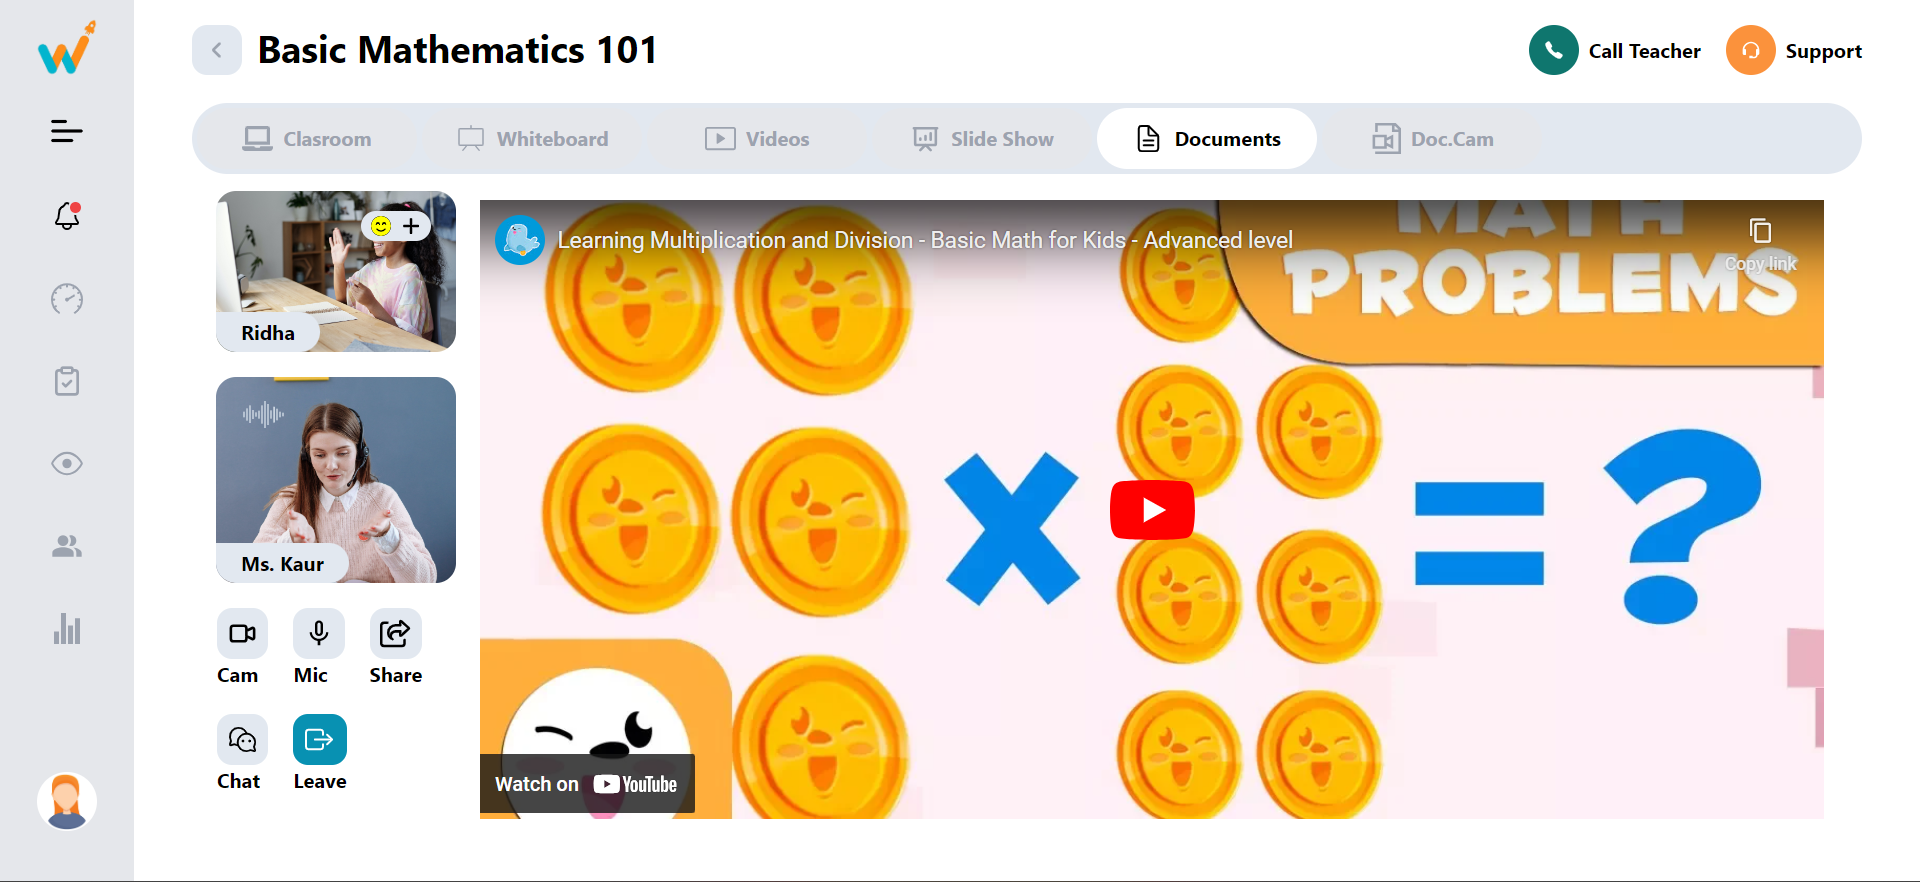
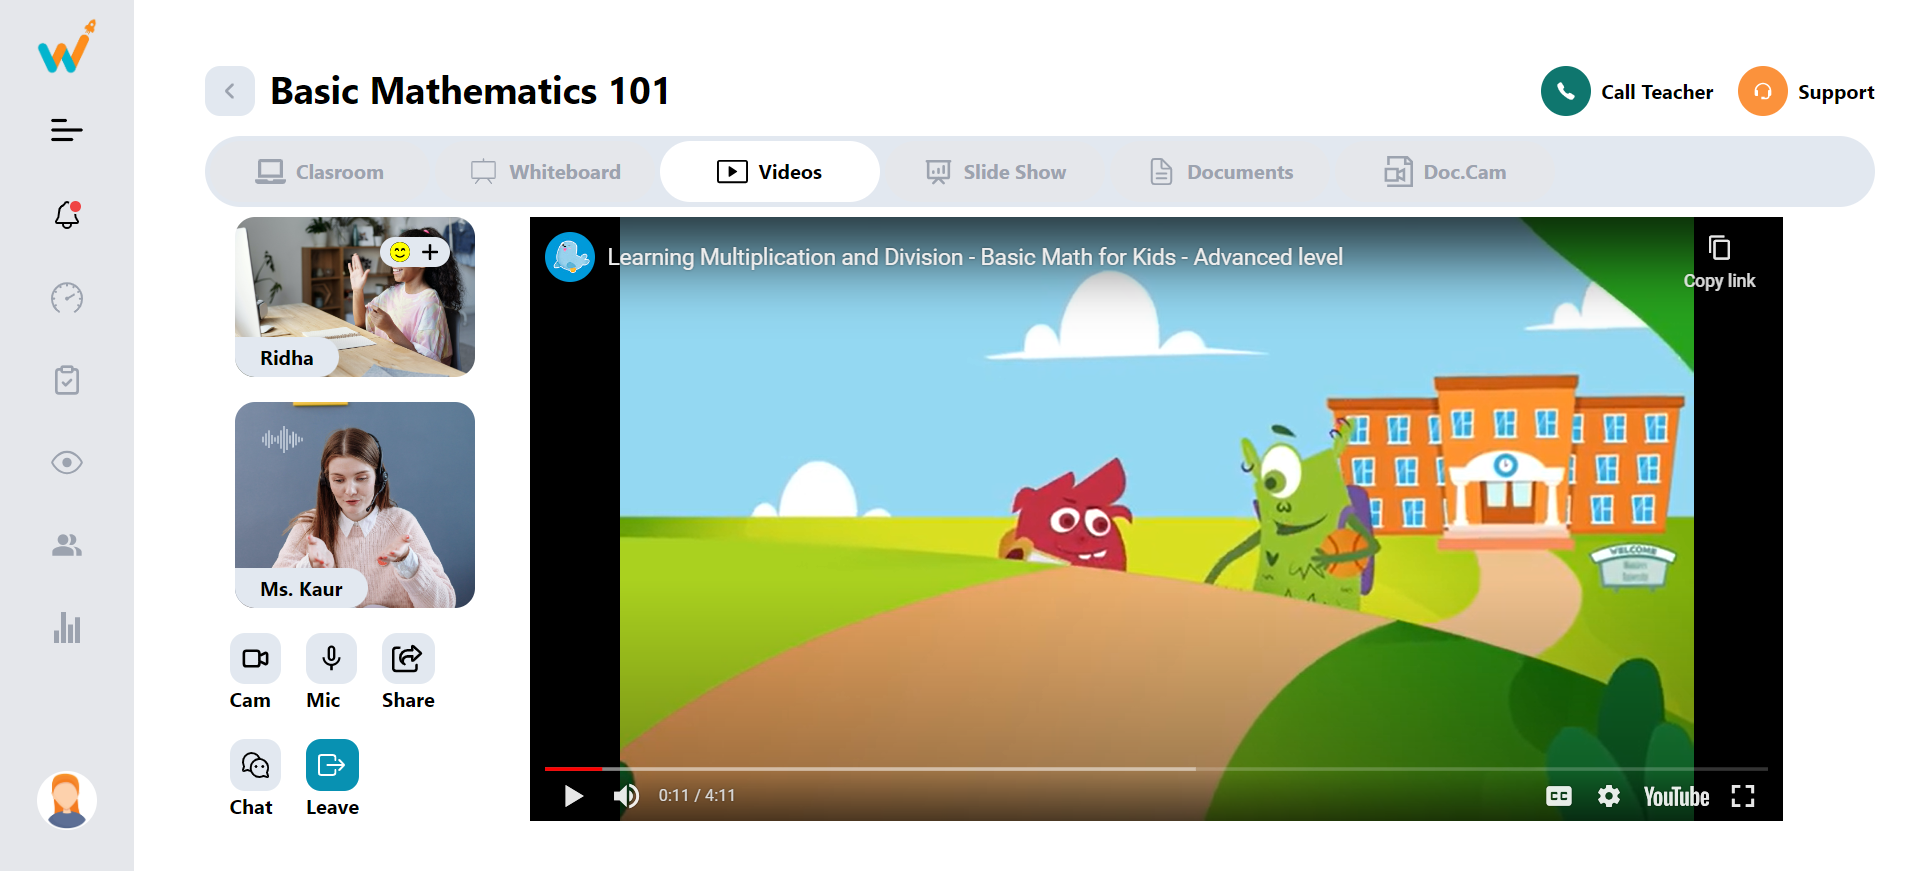
code changes

diff --git a/src/components/Interaction.js b/src/components/Interaction.js
@@ -23,24 +23,28 @@ const Interaction = () => {
         { id: 5,label: "Leave", icon: <IoExitOutline style={{ fontSize: "25px"}} />  },
       ];
   return (
-    <div className="w-[15%] h-[70%] top-[22%] left-[10%] flex flex-col gap-5 items-center  absolute">
-        <div className="relative cursor-pointer">
-            <img src={student} alt='student' className="w-48 rounded-2xl" />
-            <label className="absolute left-0 bottom-0 bg-slate-200 py-1 px-5 rounded-r-[50px] rounded-b-[50px] font-bold  ">Ridha</label>
-            <div className="absolute right-5 top-4 flex gap-2 bg-slate-200 py-1 px-2 rounded-2xl">
-                <FaFaceSmileBeam style={{color: "yellow", backgroundColor: "black", borderRadius: "18px"}}/>
-                <FaPlus/>
+    <div className=" md:w-[18%] flex flex-col gap-5 items-center">
+        <div className="flex md:flex-col gap-5">
+            <div className="relative cursor-pointer">
+                <img src={student} alt='student' className="md:w-48 w-36 rounded-2xl" />
+                <label className="absolute left-0 bottom-0 bg-slate-200 py-1 px-5 rounded-r-[50px] rounded-b-[50px] font-bold  ">Ridha</label>
+                <div className="absolute right-5 top-4 flex gap-2 bg-slate-200 py-1 px-2 rounded-2xl">
+                    <FaFaceSmileBeam style={{color: "yellow", backgroundColor: "black", borderRadius: "18px"}}/>
+                    <FaPlus/>
+                </div>
+            </div>
+            <div className="relative cursor-pointer">
+                <img src={teacher} alt='teacher' className="md:w-48 w-36 rounded-2xl"/>
+                <label className="absolute left-0 bottom-0 bg-slate-200 py-1 px-5 rounded-r-[50px] rounded-b-[50px] font-bold  ">Ms. Kaur</label>
+                {/* <GiSoundWaves style={{position: "absolute", top: "15px", left: "15px", fontSize: "30px", color: "slate"}}/> */}
+                <div className="absolute left-5 top-3 text-4xl text-slate-300">
+                    <GiSoundWaves/>
+                </div>
             </div>
         </div>
+        
 
-        <div className="relative cursor-pointer">
-            <img src={teacher} alt='teacher' className="w-48 rounded-2xl"/>
-            <label className="absolute left-0 bottom-0 bg-slate-200 py-1 px-5 rounded-r-[50px] rounded-b-[50px] font-bold  ">Ms. Kaur</label>
-            {/* <GiSoundWaves style={{position: "absolute", top: "15px", left: "15px", fontSize: "30px", color: "slate"}}/> */}
-            <div className="absolute left-5 top-3 text-4xl text-slate-300">
-                <GiSoundWaves/>
-            </div>
-        </div>
+        
         
         
         

diff --git a/src/components/Header.js b/src/components/Header.js
@@ -27,12 +27,12 @@ const Header = () => {
     window.location.href = mailtoUrl;
   };
   return (
-    <div className="w-[87%] h-[8%] left-[10%] top-[2%] flex justify-between items-center absolute ">
+    <div className="w-[87vw]  flex justify-between items-center">
       <div className="flex gap-3">
-        <div className="bg-slate-200 p-3 text-gray-400 rounded-xl cursor-pointer">
+        <div className="bg-slate-200 p-3 text-gray-400 rounded-xl flex justify-center items-center cursor-pointer">
           <FaAngleLeft />
         </div>
-        <h1 className="text-3xl font-bold">Basic Mathematics 101</h1>
+        <h1 className=" text-lg md:text-3xl font-bold">Basic Mathematics 101</h1>
       </div>
       <div className="flex gap-5">
         <div
@@ -43,7 +43,7 @@ const Header = () => {
             <IoCall />
           </div>
 
-          <p className="font-bold">Call Teacher</p>
+          <p className="font-bold hidden md:block">Call Teacher</p>
         </div>
         <div
           className="flex items-center gap-2 cursor-pointer"
@@ -52,7 +52,7 @@ const Header = () => {
           <div className="bg-orange-400 text-white p-3 rounded-[50px]">
             <BiSupport />
           </div>
-          <p className="font-bold">Support</p>
+          <p className="font-bold hidden md:block">Support</p>
         </div>
       </div>
     </div>

diff --git a/src/components/TopNavbar.js b/src/components/TopNavbar.js
@@ -19,7 +19,7 @@ const TopNavbar = () => {
   ];
 
   return (
-    <div className="w-[87%] h-[8%] left-[10%] top-[12%] px-1 py-1 flex items-center gap-1 rounded-[50px] bg-slate-200 absolute">
+    <div className="w-[87vw] h-[8vh] px-1 py-1 flex items-center gap-1 rounded-[50px] bg-slate-200">
       {navbarItems.map((item) => (
         <div
           className={`w-44 h-[100%] flex justify-center items-center rounded-[50px] gap-2 font-bold cursor-pointer  ${
@@ -31,7 +31,7 @@ const TopNavbar = () => {
           key={item.id}
         >
           {item.icon}
-          <p>{item.label}</p>
+          <p className="hidden md:block ">{item.label}</p>
         </div>
       ))}
     </div>

diff --git a/src/components/Content.js b/src/components/Content.js
@@ -1,0 +1,21 @@
+import React from 'react'
+import Header from './Header'
+import TopNavbar from './TopNavbar'
+import Interaction from './Interaction'
+import VideoPlayer from './VideoPlayer'
+
+const Content = () => {
+  return (
+    <div className="pt-3 md:pt-0 flex flex-col gap-2 m-auto">
+        <Header/>
+        <TopNavbar/>
+        <div className="flex flex-col-reverse md:flex-row gap-5 ">
+            
+            <Interaction/>
+            <VideoPlayer/>
+        </div>
+    </div>
+  )
+}
+
+export default Content

diff --git a/src/components/SideNavbar.js b/src/components/SideNavbar.js
@@ -12,7 +12,7 @@ import profile from "../images/profile.png"
 
 const SideNavbar = () => {
   return (
-    <div className=" w-[7%] h-[100vh] bg-gray-200 flex flex-col items-center justify-between pt-2 pb-10 absolute">
+    <div className=" w-[7vw] h-[100vh] bg-gray-200 md:flex flex-col items-center justify-between pt-2 pb-10 hidden ">
         <div className="flex flex-col gap-5 items-center cursor-pointer">
             <img src={logo} alt="logo" className="w-16" />
             <CgMenuLeft style={{fontSize: "30px"}}/>

diff --git a/src/App.js b/src/App.js
@@ -4,15 +4,13 @@ import TopNavbar from './components/TopNavbar';
 import Interaction from './components/Interaction';
 import VideoPlayer from './components/VideoPlayer';
 import Header from './components/Header';
+import Content from './components/Content';
 
 function App() {
   return (
-    <div>
-      <Header/>
+    <div className="flex gap-5 " >
       <SideNavbar/>
-      <TopNavbar/>
-      <Interaction/>
-      <VideoPlayer/>
+      <Content/>
     </div>
   );
 }

diff --git a/src/components/VideoPlayer.js b/src/components/VideoPlayer.js
@@ -3,7 +3,7 @@ import React from 'react'
 const VideoPlayer = () => {
     const videoId = "BNk-yaFguNs"
   return (
-    <div className="left-[25%] top-[23%] w-[70%] h-[70%] absolute">
+    <div className="w-[100%] md:w-[75%] h-[40vh] md:h-[70vh]">
         <iframe
         // width="1080"
         // height="500"

diff --git a/README.md b/README.md
@@ -55,6 +55,7 @@ You can deploy this application on platforms like Netlify, Vercel, or any other 
 ```plaintext
 src/
 |-- components/
+|   |-- Content.js
 |   |-- Header.js
 |   |-- Interaction.js
 |   |-- SideNavbar.js
